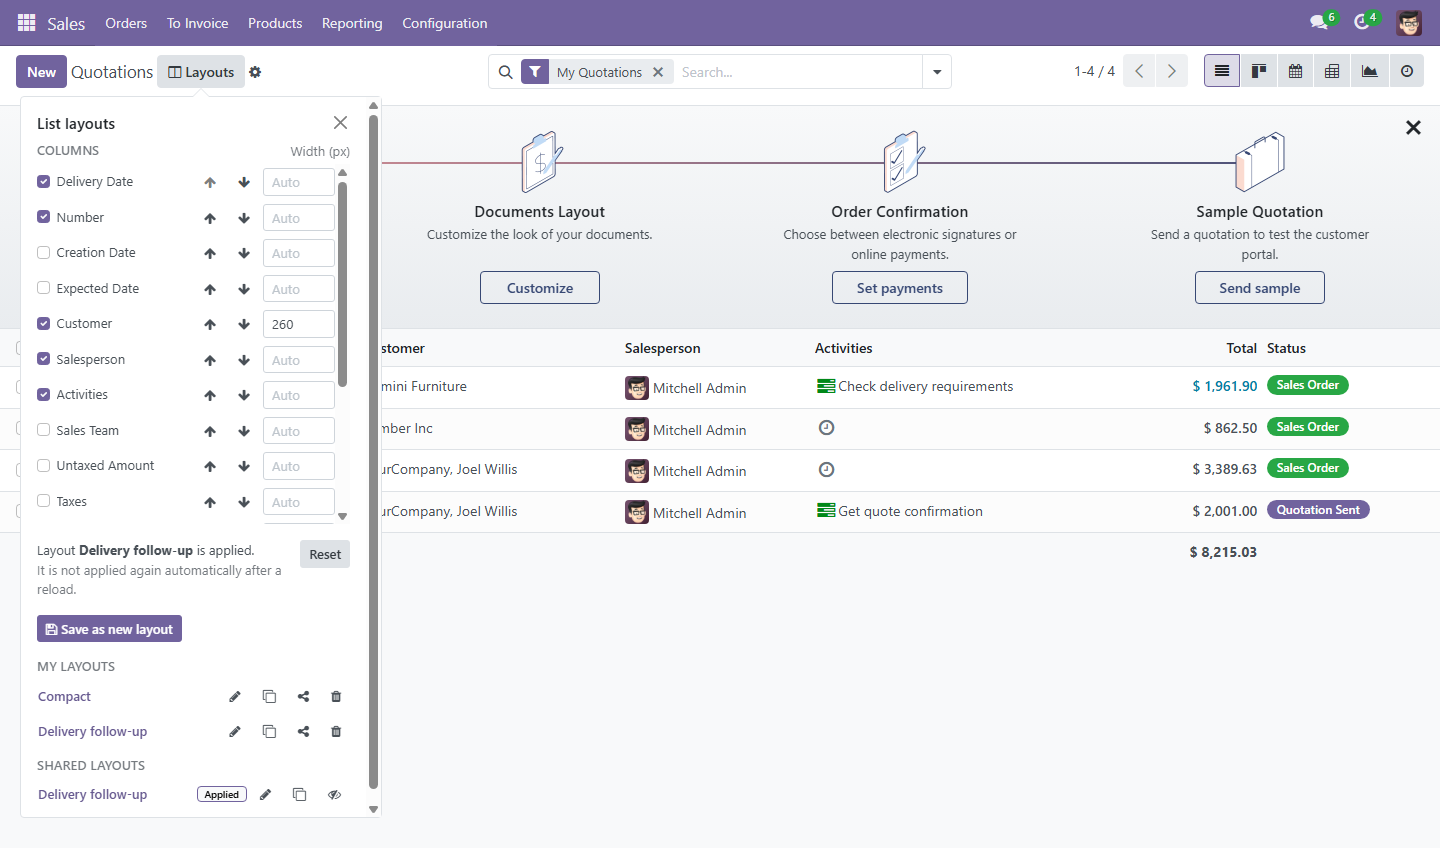
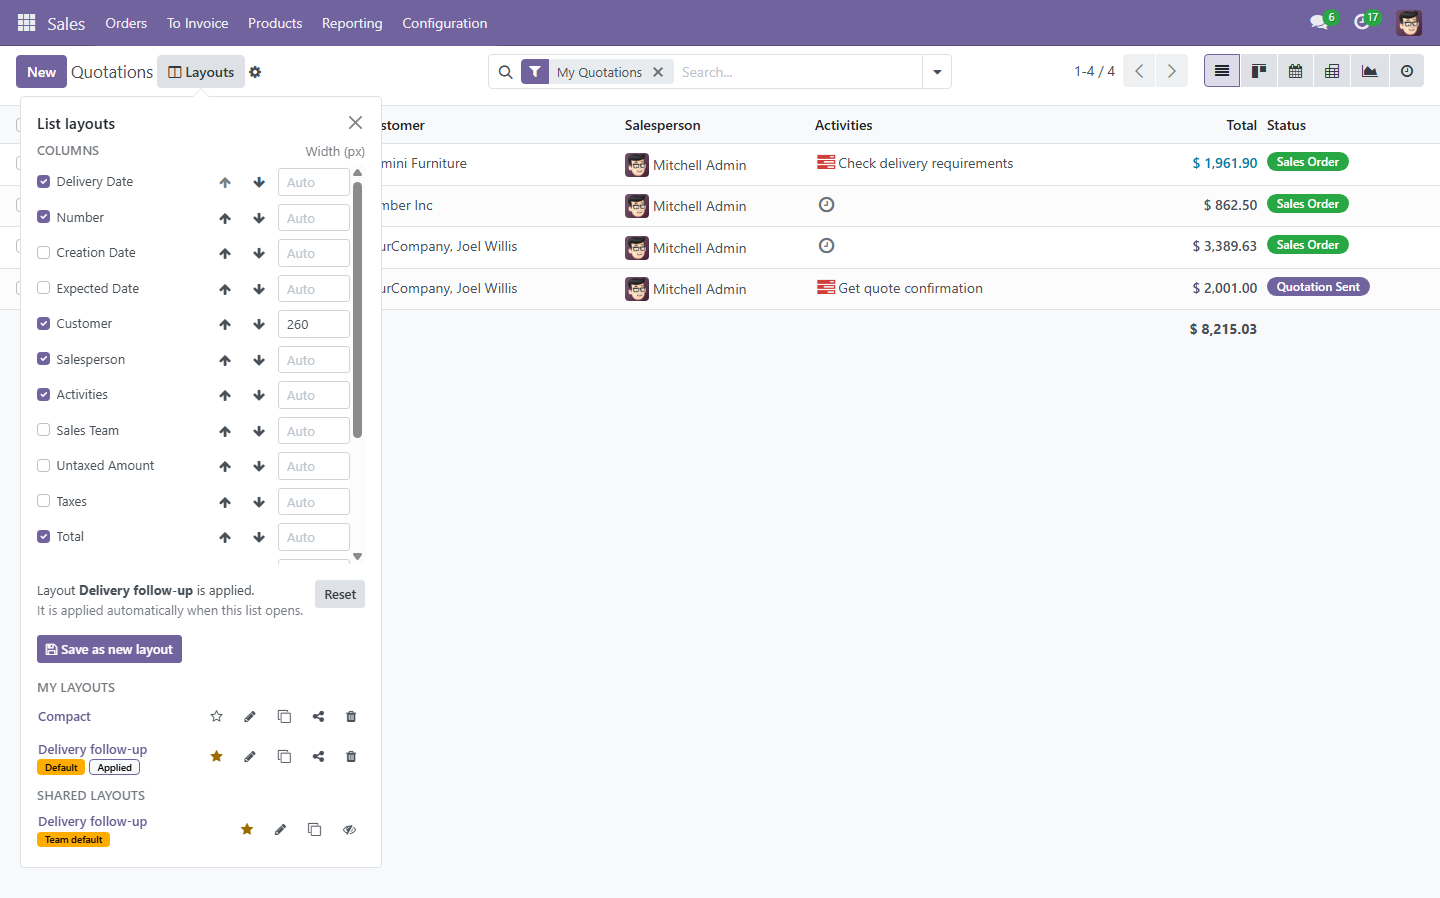
App page: readable hero, default layouts in screenshots and GIFs
- Hero and support boxes use a solid background colour: Odoo Apps strips
  CSS gradients and rgba, which left light text on white.
- Layouts panel: badges (Default, Team default, Applied) on their own line
  under the name, so names and badges are no longer cut off.
- New screenshots and banner/demo GIFs showing the starred default, the
  list after a reload and the team default for another user.

diff --git a/smart_list_view_pro/static/description/index.html b/smart_list_view_pro/static/description/index.html
@@ -1,10 +1,10 @@
 <!-- Hero -->
 <section class="oe_container" style="padding:0;">
-    <div style="background:linear-gradient(135deg,#115e59 0%,#0c3f3c 100%); border-radius:18px; padding:48px 32px 40px; color:#fff; text-align:center;">
+    <div style="background-color:#115e59; border-radius:18px; padding:48px 32px 40px; color:#fff; text-align:center;">
         <div>
             <span style="display:inline-block; background:#f59e0b; color:#2a1e00; font-weight:700; font-size:13px; padding:5px 14px; border-radius:20px; margin:0 4px 8px;">Odoo 17</span>
-            <span style="display:inline-block; background:rgba(255,255,255,.15); color:#fff; font-weight:600; font-size:13px; padding:5px 14px; border-radius:20px; margin:0 4px 8px;">Community &amp; Enterprise</span>
-            <span style="display:inline-block; background:rgba(255,255,255,.15); color:#fff; font-weight:600; font-size:13px; padding:5px 14px; border-radius:20px; margin:0 4px 8px;">Self-hosted &amp; Odoo.sh</span>
+            <span style="display:inline-block; background-color:#1f7a73; color:#fff; font-weight:600; font-size:13px; padding:5px 14px; border-radius:20px; margin:0 4px 8px;">Community &amp; Enterprise</span>
+            <span style="display:inline-block; background-color:#1f7a73; color:#fff; font-weight:600; font-size:13px; padding:5px 14px; border-radius:20px; margin:0 4px 8px;">Self-hosted &amp; Odoo.sh</span>
         </div>
         <p style="color:#d6efec; font-size:20px; max-width:760px; margin:16px auto 26px; line-height:1.5;">
             Every user sees the list the way they work. Pick the columns, put them in order, set their widths,
@@ -203,29 +203,36 @@
     </div>
 
     <div style="border:1px solid #e5e7eb; border-radius:16px; padding:24px; margin-bottom:28px;">
-        <h3 style="color:#115e59; font-weight:700;"><span style="display:inline-block; width:38px; height:38px; line-height:38px; text-align:center; border-radius:50%; background:#f59e0b; color:#2a1e00; font-size:18px; margin-right:10px;">4</span>Share it with the team</h3>
-        <p style="color:#555;"><i>My layouts</i> are private to you. Layout administrators can publish one to
-            <i>Shared layouts</i> for every internal user of that list.</p>
-        <img class="img img-fluid" src="screenshots/05_saved_and_shared_layouts.png" alt="Personal and shared layouts in the panel"
+        <h3 style="color:#115e59; font-weight:700;"><span style="display:inline-block; width:38px; height:38px; line-height:38px; text-align:center; border-radius:50%; background:#f59e0b; color:#2a1e00; font-size:18px; margin-right:10px;">4</span>Star it as your default, share it with the team</h3>
+        <p style="color:#555;">Click the <b>&#9733;</b> next to a layout to make it your <b>default</b>. <i>My layouts</i> are private to you.
+            Layout administrators can publish a layout to <i>Shared layouts</i> and star it there as the
+            <b>team default</b>.</p>
+        <img class="img img-fluid" src="screenshots/05_saved_and_shared_layouts.png" alt="Personal default and team default layouts in the panel"
              style="border-radius:10px; border:1px solid #e5e7eb;"/>
     </div>
 
     <div style="border:1px solid #e5e7eb; border-radius:16px; padding:24px; margin-bottom:28px;">
-        <h3 style="color:#115e59; font-weight:700;"><span style="display:inline-block; width:38px; height:38px; line-height:38px; text-align:center; border-radius:50%; background:#f59e0b; color:#2a1e00; font-size:18px; margin-right:10px;">5</span>Team members apply it in one click</h3>
-        <p style="color:#555;">Other users can apply a shared layout or duplicate it into their own layouts, but cannot
-            change or remove it. Columns they are not allowed to read stay hidden.</p>
-        <img class="img img-fluid" src="screenshots/06_team_layout_for_employees.png" alt="A sales user applying the shared layout"
+        <h3 style="color:#115e59; font-weight:700;"><span style="display:inline-block; width:38px; height:38px; line-height:38px; text-align:center; border-radius:50%; background:#f59e0b; color:#2a1e00; font-size:18px; margin-right:10px;">5</span>The list opens that way every time</h3>
+        <p style="color:#555;">Close the browser, reload the page, come back tomorrow: the list opens with your default layout,
+            without a click. <b>Reset</b> brings back the standard columns at any time.</p>
+        <img class="img img-fluid" src="screenshots/07_default_after_reload.png" alt="The default layout applied automatically after a reload"
+             style="border-radius:10px; border:1px solid #e5e7eb;"/>
+    </div>
+
+    <div style="border:1px solid #e5e7eb; border-radius:16px; padding:24px; margin-bottom:28px;">
+        <h3 style="color:#115e59; font-weight:700;"><span style="display:inline-block; width:38px; height:38px; line-height:38px; text-align:center; border-radius:50%; background:#f59e0b; color:#2a1e00; font-size:18px; margin-right:10px;">6</span>Every user gets the team default</h3>
+        <p style="color:#555;">Users who have not starred a layout of their own get the team default when they open the list. They can
+            duplicate it into their own layouts, but cannot change or remove it. Columns they are not allowed to
+            read stay hidden.</p>
+        <img class="img img-fluid" src="screenshots/06_team_layout_for_employees.png" alt="A sales user with the team default applied"
              style="border-radius:10px; border:1px solid #e5e7eb;"/>
     </div>
 
     <div style="border:1px solid #e5e7eb; border-radius:16px; padding:24px;">
-        <h3 style="color:#115e59; font-weight:700;"><span style="display:inline-block; width:38px; height:38px; line-height:38px; text-align:center; border-radius:50%; background:#f59e0b; color:#2a1e00; font-size:18px; margin-right:10px;">6</span>Star it as default, then work as usual</h3>
-        <p style="color:#555;">Click the <b>&#9733;</b> next to a layout and the list opens with it every time, also after a
-            reload. Layout administrators can star a shared layout to make it the <b>team default</b> for everyone who
-            has not chosen their own.</p>
+        <h3 style="color:#115e59; font-weight:700;"><span style="display:inline-block; width:38px; height:38px; line-height:38px; text-align:center; border-radius:50%; background:#f59e0b; color:#2a1e00; font-size:18px; margin-right:10px;">7</span>Work as usual</h3>
         <p style="color:#555;">Sorting, filters, grouping, pager, selection and inline editing keep working exactly as before.
-            <b>Reset</b> brings back the standard columns at any time; your saved layouts are kept.</p>
-        <img class="img img-fluid" src="screenshots/01_list_with_layout_applied.png" alt="Sales quotations list with a saved layout applied"
+            Your saved layouts are kept when you reset.</p>
+        <img class="img img-fluid" src="screenshots/01_list_with_layout_applied.png" alt="Sales quotations list with the default layout applied"
              style="border-radius:10px; border:1px solid #e5e7eb;"/>
     </div>
 </section>
@@ -322,12 +329,12 @@
 
 <!-- Support -->
 <section class="oe_container" style="margin-top:44px; margin-bottom:20px;">
-    <div style="background:linear-gradient(135deg,#115e59 0%,#0c3f3c 100%); border-radius:18px; padding:36px 24px; text-align:center; color:#fff;">
+    <div style="background-color:#115e59; border-radius:18px; padding:36px 24px; text-align:center; color:#fff;">
         <h2 style="color:#fff; font-weight:800;">Need help?</h2>
         <p style="color:#d6efec; font-size:17px; margin-bottom:22px;">Questions, issues or ideas: write to us and we will get back to you.<br/>Free support and bug fixes included.</p>
         <a href="mailto:rahul@softdeviser.com" style="display:inline-block; background:#f59e0b; color:#2a1e00; font-weight:700; padding:12px 26px; border-radius:26px; text-decoration:none; margin:4px;">
             <i class="fa fa-envelope"></i>&#160; rahul@softdeviser.com</a>
-        <a href="https://softdeviser.com" style="display:inline-block; background:rgba(255,255,255,.15); color:#fff; font-weight:600; padding:12px 26px; border-radius:26px; text-decoration:none; margin:4px;">
+        <a href="https://softdeviser.com" style="display:inline-block; background-color:#1f7a73; color:#fff; font-weight:600; padding:12px 26px; border-radius:26px; text-decoration:none; margin:4px;">
             <i class="fa fa-globe"></i>&#160; softdeviser.com</a>
         <p style="color:#a7d4cf; font-size:13px; margin-top:20px;">by Softdeviser</p>
     </div>

diff --git a/smart_list_view_pro/static/src/scss/layout.scss b/smart_list_view_pro/static/src/scss/layout.scss
@@ -10,8 +10,13 @@
     }
 
     .o_smart_list_column_label,
+    .o_smart_list_preset_label,
     .o_smart_list_apply {
         min-width: 0;
+    }
+
+    .o_smart_list_preset > .btn {
+        flex: 0 0 auto;
     }
 
     .o_smart_list_width {
